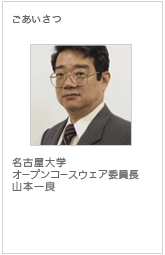
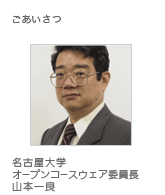
top 微調整 firefox
git-svn-id: file:///ocw/svn/design-rep/ocw-design/branches/2010@2166 0cb0e2da-76ef-49b7-9531-4241df5af7e9

diff --git a/css/2010.css b/css/2010.css
@@ -321,12 +321,14 @@ position: relative;
 #greeting{
 	float: left;
 	width: 165px;
-	height: 255px;
+	/*height: 255px;*/
 	margin-top: 20px;
 	position: relative;
 	font-size: 11px;
 	font-height: 12px;
 	zoom: 1;
+	border-style: solid;
+	border-width: 1px;
 }
 	#greeting p{
 		position: absolute;
